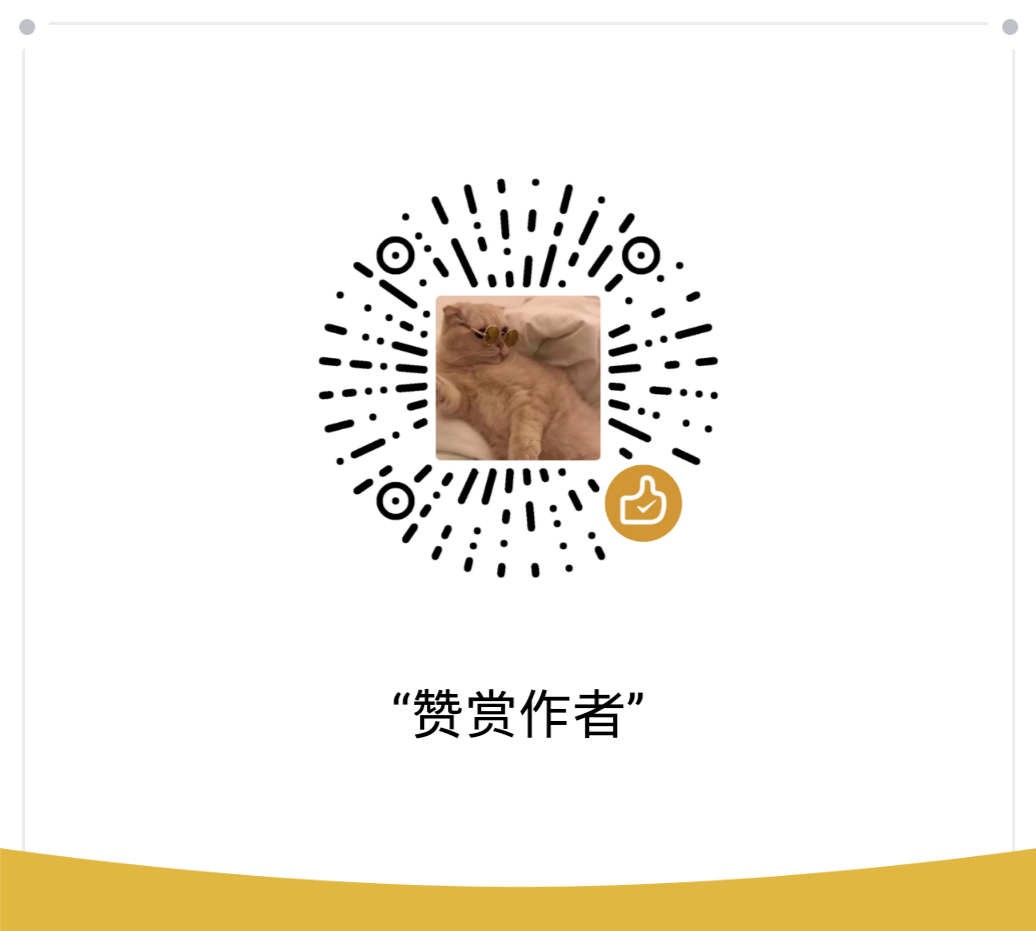
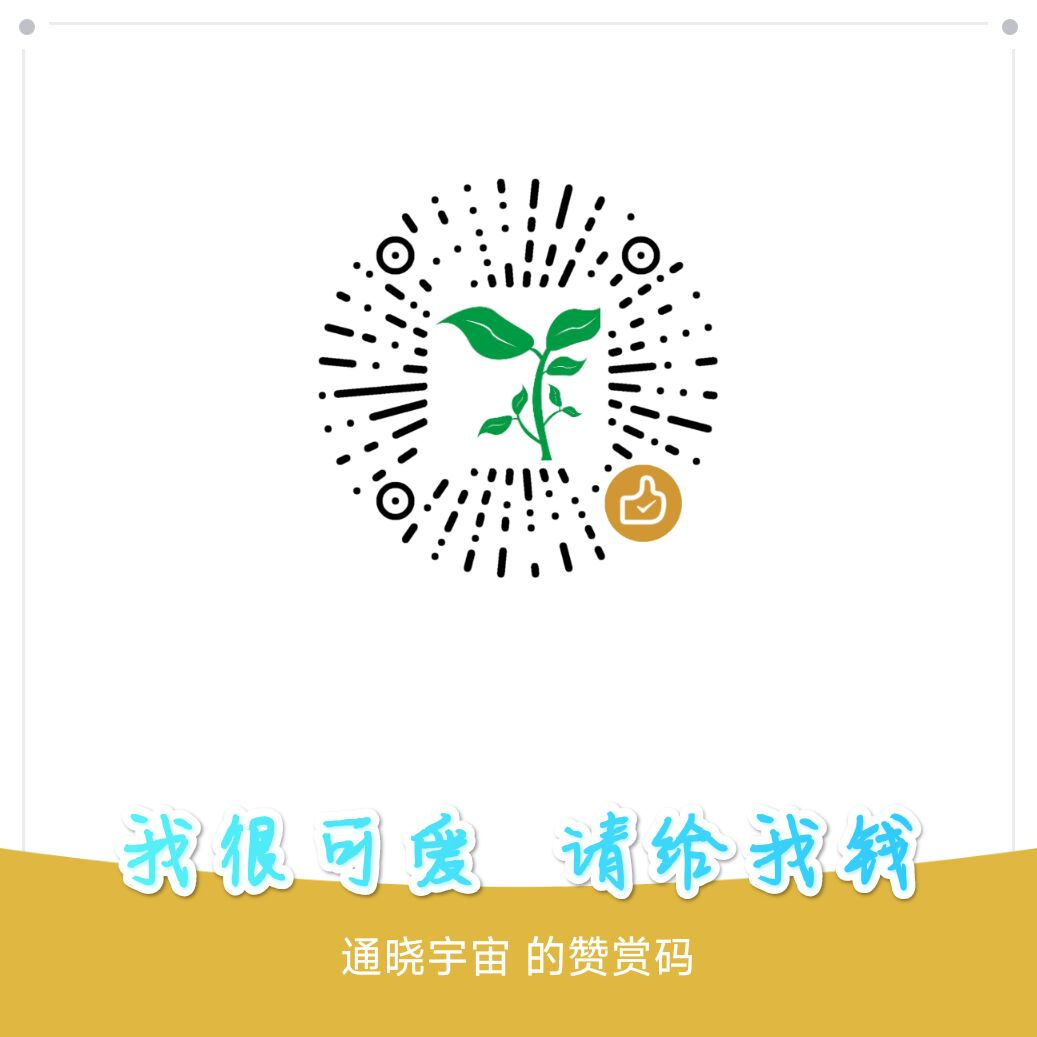
修改

Changed region(s): [[0.0, 0.7164, 1.0, 0.9656], [0.3089, 0.1557, 0.7104, 0.623]]

diff --git a/miniapp-todo/pages/about/about.js b/miniapp-todo/pages/about/about.js
@@ -3,7 +3,7 @@ let interstitialAd = null
 //插屏广告
 Page({
   data: {
-    imgalist: ['https://s2.ax1x.com/2019/09/18/nTVJIg.png']
+    imgalist: ['https://i-s2.328888.xyz/2022/06/27/62b976123f154.jpg']
   },
 // 在页面onLoad回调事件中创建插屏广告实例
 onLoad() {
